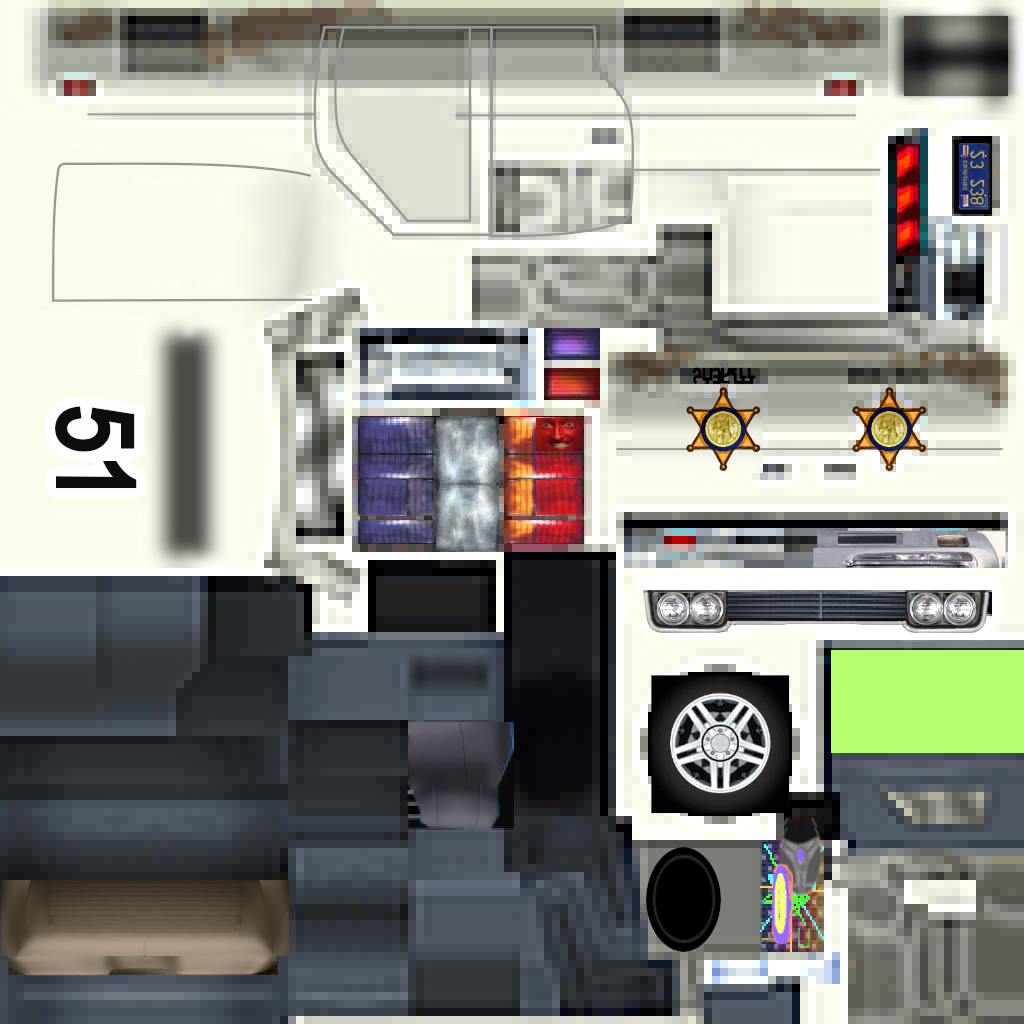
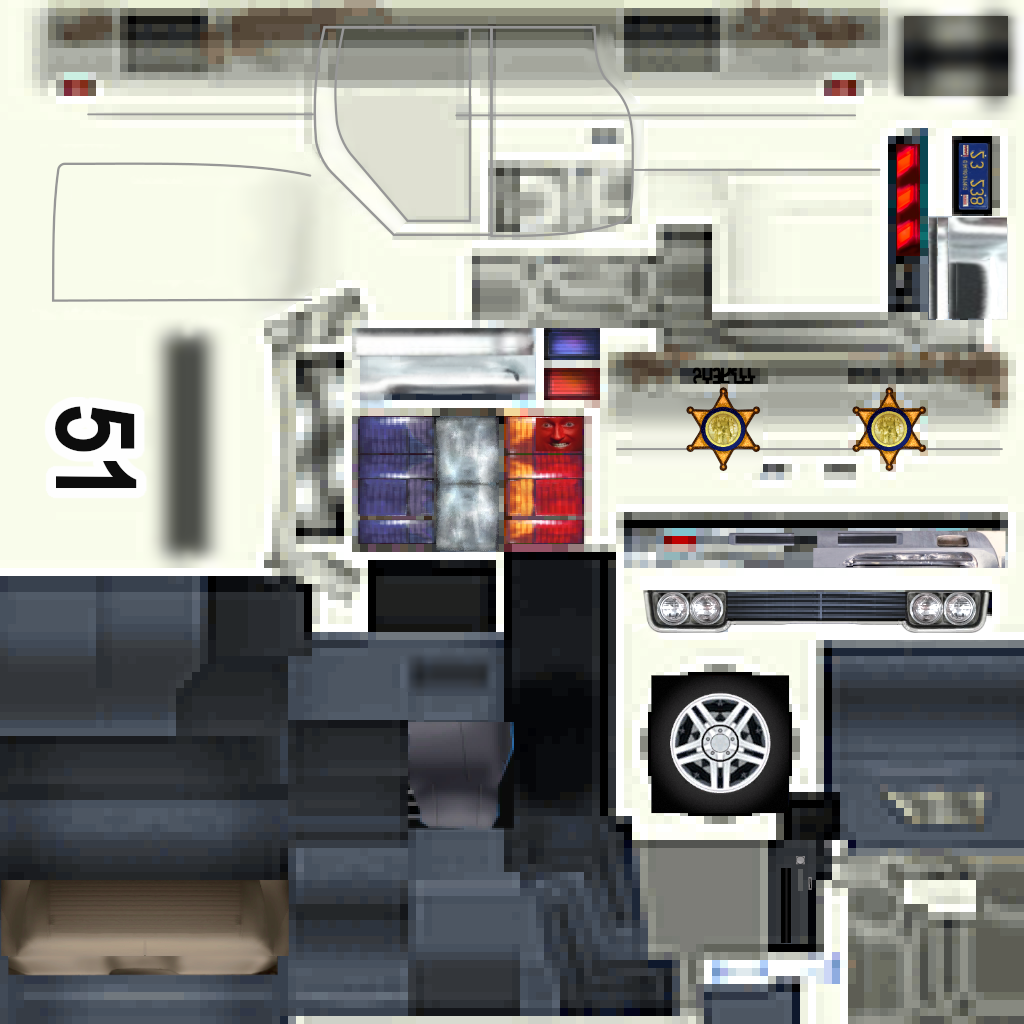
adjustments

diff --git a/README.md b/README.md
@@ -2,6 +2,7 @@
 
 <p align="center"><img src="./screenshots/comparison1.jpg"></p>
 <p align="center"><img src="./screenshots/comparison2.jpg"></p>
+<p align="center"><img src="./screenshots/comparison3.jpg"></p>
 
 A texture pack for *The Sims 2(PSP)* made for the PPSSPP emulator
 
@@ -15,7 +16,6 @@ Higher resolution textures have been imported from the PC version or remade by h
 <img src="./screenshots/altbuttonlayout.png">
 
 [Download here](https://github.com/Grip-hearttin/The-Sims-2-PSP-HD-Texture-Pack/releases/tag/altbuttons)
-
 
 </div>
 
